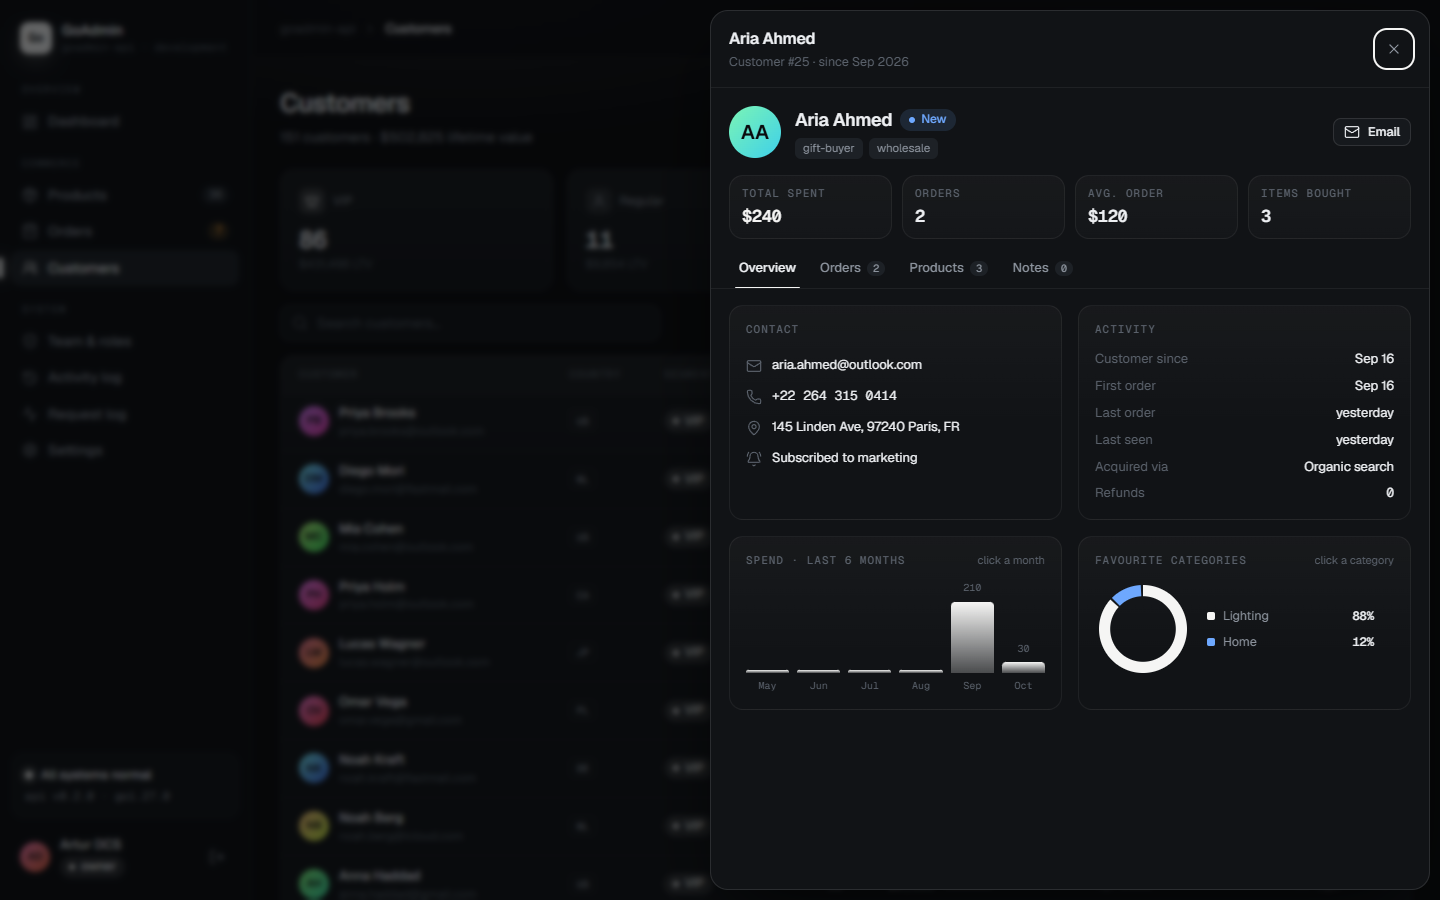
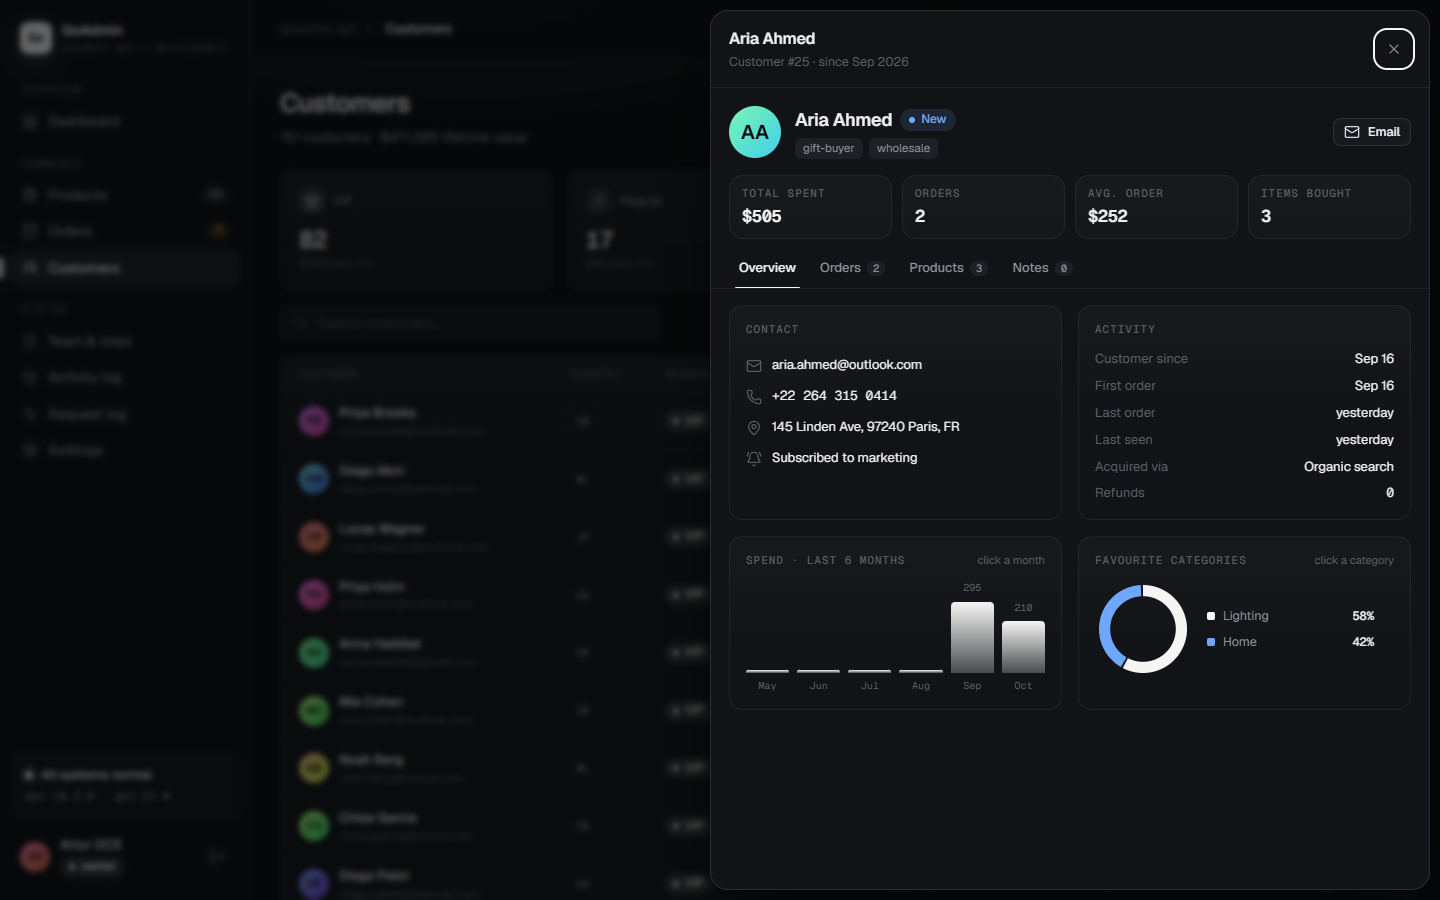
Document derived product sales, order entry and demo rebuilds; refresh screenshots

diff --git a/docs/API.md b/docs/API.md
@@ -98,7 +98,7 @@ Every response carries an `X-Request-ID` (a client-supplied one is kept).
 | ------ | ---- | ---------- | ----- |
 | GET | `/dashboard?range=7\|30\|90` | `dashboard:read` | revenue series, KPIs with daily series, heatmap, categories, top products, recent orders, activity feed, markets, quarterly target. All computed from orders: revenue counts orders that are not refunded or failed, so a refund changes it. The conversion KPI is a fixed sample (`synthetic: true`) |
 | PUT | `/target` | `workspace:manage` | `{goalCents}`: this quarter's revenue goal; returns the target with its recomputed pace |
-| GET | `/live` | `dashboard:read` | simulated storefront traffic (2-minute history) and the hottest product, picked from active, in-stock best sellers on a demand signal that drifts minute to minute |
+| GET | `/live` | `dashboard:read` | simulated storefront traffic (2-minute history; viewers and carts are made up) and the hottest product, picked from active, in-stock best sellers on a demand signal that drifts minute to minute. Its sold and sold-today figures are real, read from orders |
 | GET | `/runtime` | `dashboard:read` | real Go runtime stats: goroutines, heap, GC, uptime |
 
 ### Products
@@ -122,6 +122,7 @@ Every response carries an `X-Request-ID` (a client-supplied one is kept).
 | Method | Path | Permission | Notes |
 | ------ | ---- | ---------- | ----- |
 | GET | `/orders?q&status&customer&from&to&limit&offset` | `orders:read` | `{items, total, counts}`; `from` and `to` (RFC 3339) bound `placed_at` |
+| POST | `/orders` | `orders:write` | enters a sale: `{customerId, payment, items:[{productId, qty}]}`. Prices come from the catalogue now, stock is taken (409 when there is too little, 422 for an unknown or inactive product), the order starts `pending` with you as the first timeline entry. Returns 201 with the order |
 | GET | `/orders/{id}` | `orders:read` | adds `events` (the order's own history, oldest first) and the charged `shippingCents`, `taxCents`, `grandTotalCents` |
 | GET | `/orders/{id}/invoice` | `orders:read` | a printable HTML invoice (use Print → Save as PDF); refunded orders are stamped REFUNDED with the reason |
 | PATCH | `/orders/{id}/status` | `orders:write` | `{status, reason}`; see below |

diff --git a/docs/ARCHITECTURE.md b/docs/ARCHITECTURE.md
@@ -226,6 +226,8 @@ derives order count, LTV, last order and segment.
   | `00009_invites.sql` | invitation token hash and expiry on `members` |
   | `00010_order_events.sql` | per-order history, backfilled from each order's status |
   | `00011_drop_rollups.sql` | drops `revenue_daily` and `orders_heatmap`: the dashboard reads orders |
+  | `00012_derive_product_sales.sql` | drops `products.sold_30d` and `trend`: sales come from orders |
+  | `00013_seed_info.sql` | the dataset version a demo database was seeded with |
 
 - **The dashboard is computed from orders.** Both stores load the orders of the
   period (plus the previous period and the quarter) as `domain.Sale` rows and
@@ -234,7 +236,11 @@ derives order count, LTV, last order and segment.
   Revenue, orders, new customers, AOV, the heatmap, category and product sales,
   markets and the quarter's booked amount all come from there. Conversion needs
   storefront traffic this app doesn't have, so it is a fixed sample, flagged
-  `synthetic` and shown as "sample" in the UI.
+  `synthetic` and shown as "sample" in the UI. A product's units sold, revenue
+  and sparkline come from the same rows (`domain.SalesByProduct`), so the
+  catalogue, the dashboard and the live hottest product agree. A sale entered
+  with `POST /orders` takes stock in one atomic `UPDATE ... WHERE stock >= qty`,
+  so stock can't go negative under concurrent orders.
 - **Settings** are one jsonb row behind a 5-second cache, changed with a
   pointer-field patch so only the sent fields change. Maintenance mode, the
   session lifetime and the audit-log switch are read from it per request.
@@ -248,7 +254,9 @@ derives order count, LTV, last order and segment.
   expiry. The server has no mail transport, so the inviter delivers the link.
 - **Seeding and backfills.** An empty database gets the demo dataset. Older
   demo databases get refund reasons and a week of staff history once, on boot
-  (with `SEED=true`).
+  (with `SEED=true`). `seed_info` records the dataset version; a database seeded
+  by an older version is truncated and reseeded, because a changed shape (order
+  dates, customers) can't be patched in. Demo data is disposable by design.
 
 ## Access control
 

diff --git a/README.md b/README.md
@@ -6,7 +6,8 @@
 A reference admin panel: Go JSON API plus a React SPA, shipped as one binary.
 It is not built for a specific business. Use it as a starting point and as a
 catalogue of patterns. The domain is a small store with products, orders,
-customers, a team, an audit log and a request log, all seeded with fake data.
+customers, a team, an audit log and a request log, all seeded with fake data. The dashboard and every product's
+sales are computed from the orders, so a new sale or a refund moves them.
 
 **Docs:** [Architecture & diagrams](docs/ARCHITECTURE.md) · [API reference](docs/API.md) · [Contributing](CONTRIBUTING.md)
 
@@ -54,8 +55,8 @@ Screenshots are full pages captured from the demo data by
   owner can edit.
 - **Catalogue.** Product CRUD, image galleries with uploads, bulk actions, and
   CSV import and export.
-- **Orders and customers.** A real order timeline (who moved it and when,
-  with forward-only status changes), refunds that require a reason, printable
+- **Orders and customers.** Enter a sale by hand (it takes stock), a real order
+  timeline (who moved it and when, with forward-only status changes), refunds that require a reason, printable
   invoices, customer profiles you can add, notes with delete confirmation,
   segments, and a ready-made email draft for a segment.
 - **Team.** RBAC with five roles, plus per-member exceptions the owner sets. A
@@ -193,7 +194,7 @@ cd web && npm run e2e:pg      # Playwright against a fresh Postgres database
 
 Locally the e2e suite uses the installed Chrome. With `CI=1` it uses
 Playwright's bundled Chromium (`npx playwright install chromium`). The suite
-has 60 tests covering auth, every page, the order timeline, refunds, invoices,
+has 61 tests covering auth, every page, the order timeline, refunds, invoices,
 settings, webhooks, invitations, notifications, member access, the activity
 log, charts and phone layouts. It passes on both stores.
 
